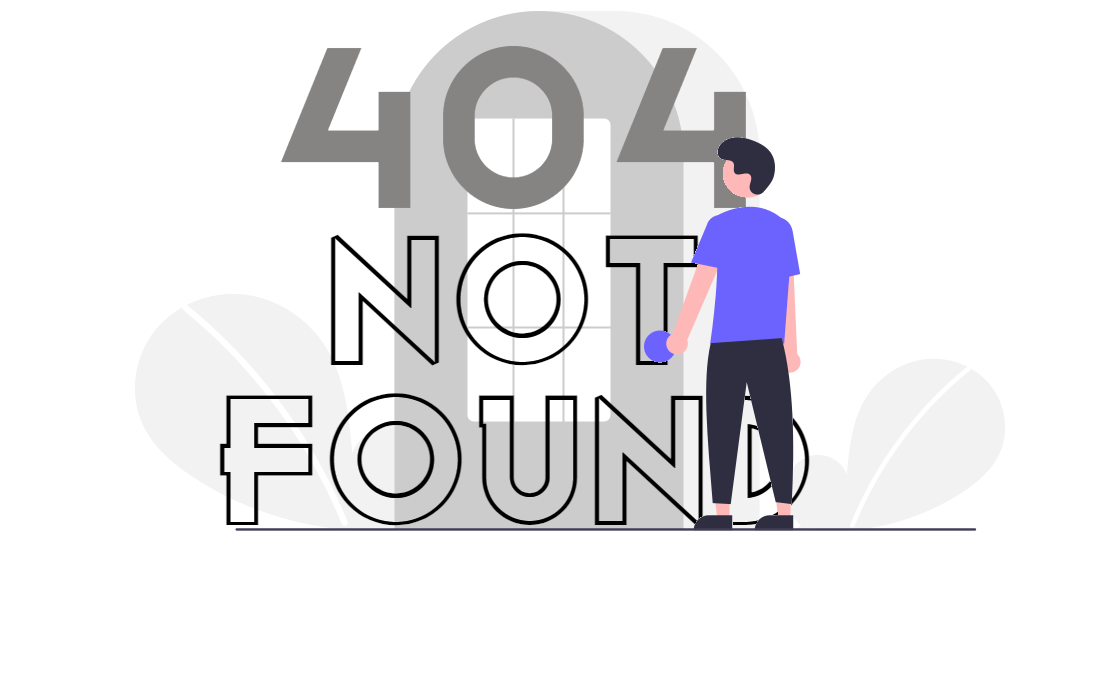
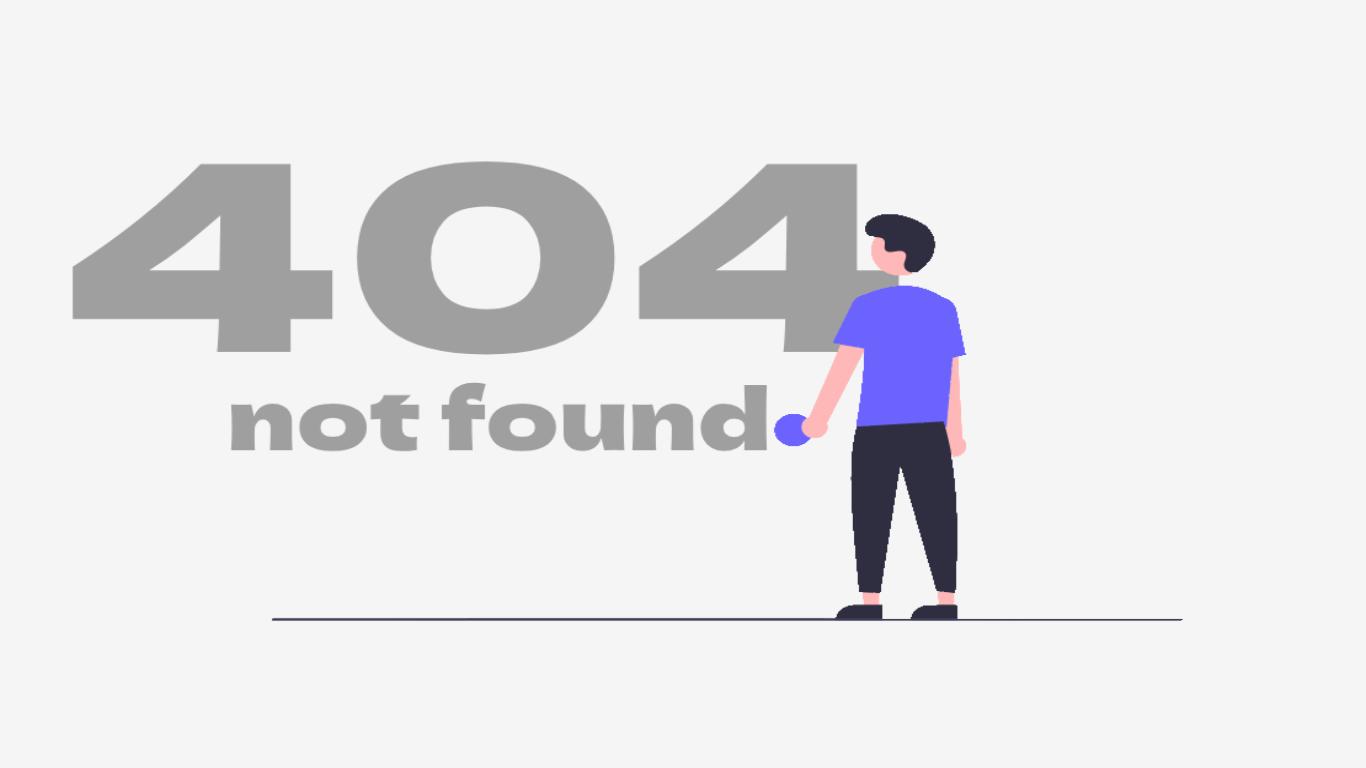
404 personalizado + modificaciones del estilo

Changed region(s): [[0.0306, 0.0, 0.8883, 0.8338]]

diff --git a/application/css/Style.css b/application/css/Style.css
@@ -20,7 +20,7 @@
 }
 
 .background {
-		background-color: #ffffff
+		background-color: #f5f5f5
 	}
 
 	body {color: rgb(74,196,169,255)
@@ -37,7 +37,7 @@
 	}
 	
 	.my-button {
-		background-color: #ffffff;
+		background-color: #fafafa;
 		color: #180000;
 		border: 3px solid #4ac4a9;
 		padding: 10px 20px;
@@ -49,28 +49,27 @@
 	  }
 
 	  .campos {
-		background-color:  #403c3c;
-		color: #ffffff;
-		text-shadow: -0.01px -0.01px 0 #000, 1px-0.01px 0 #000, -0.01px 1px 0 #000, 1px 1px 0 #000;
+		background-color:  #ffffff;
+		color: #000;
 		border: 3px solid #4ac4a9;
 		padding: 10px 20px;
 	  }
 
 	  .tabla {
-		background-color:  #fafafa;
+		background-color:  #ffffff;
 		color: rgb(61, 58, 58);
 		text-shadow: -0.01px -0.01px 0 #000, 1px-0.01px 0 #000, -0.01px 1px 0 #000, 1px 1px 0 #000;
 		border: 3px solid #4ac4a9;
 		padding: 10px 20px;
 	  }
 
-	  .campo-container {
+	  .campos-container {
 		display: flex;
 		flex-direction: column;
 		align-items: flex-start;
 	  }
 	  
-	  .campo-container label {
+	  .campos-container label {
 		margin-bottom: 5px;
 	  }
 	  
@@ -106,7 +105,7 @@
 		}
 
 		.ion-icon-accion {
-			color: rgb(0, 0, 0);
+			color: rgb(51, 49, 49);
 		  }
 
 		  .custom-checkbox {
